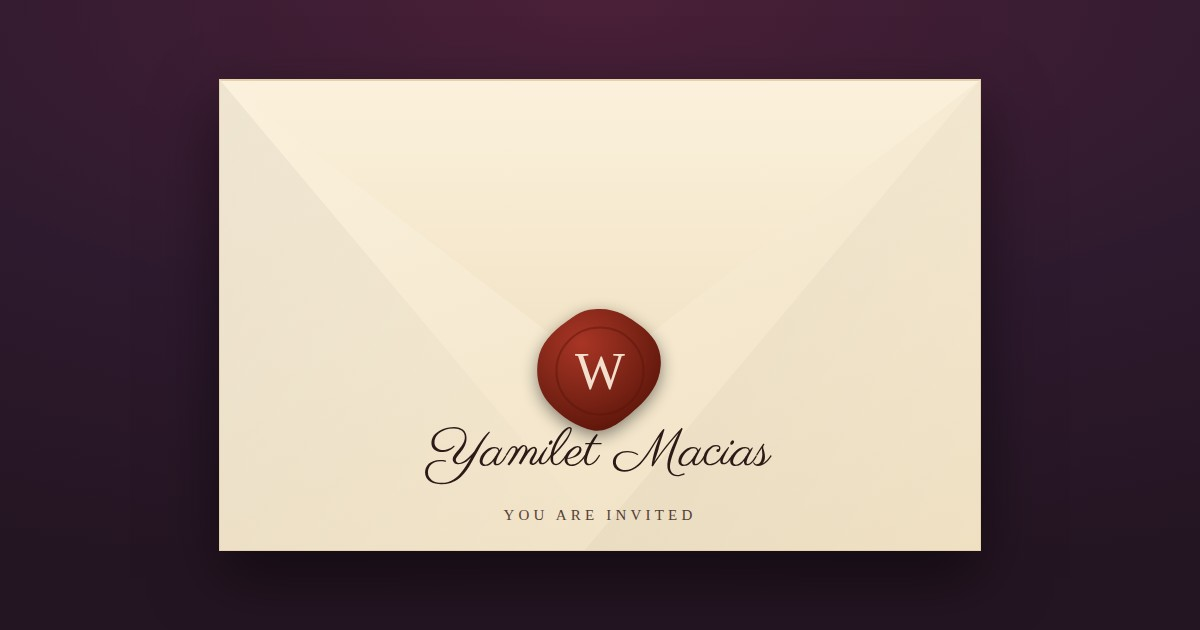
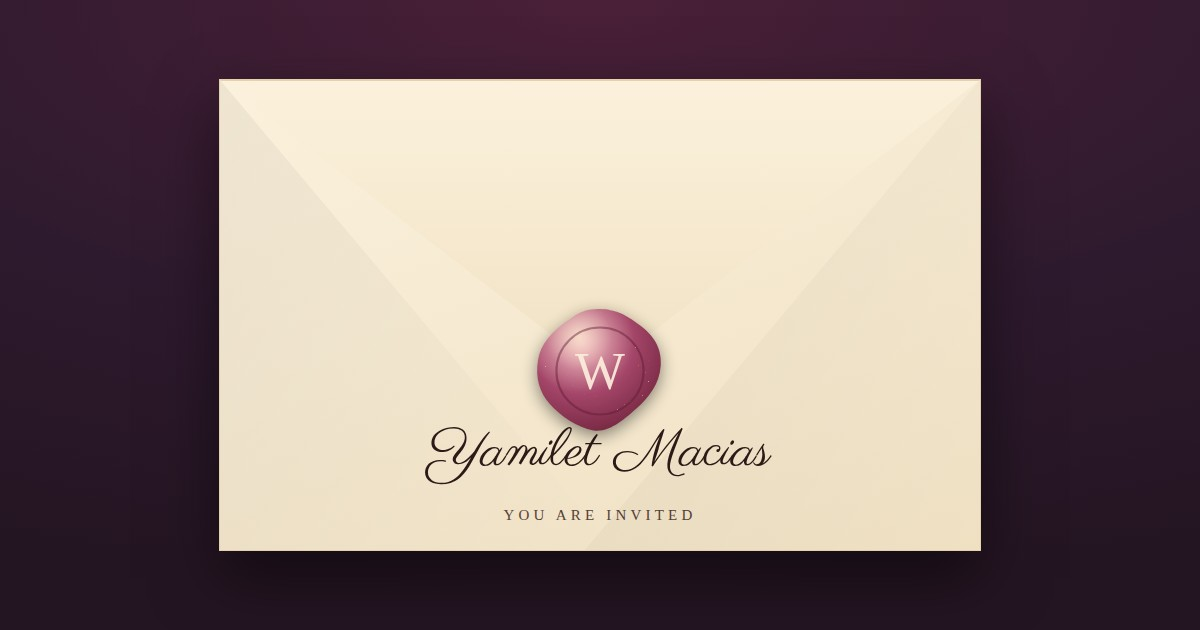
A rose seal for Yamilet, and Omer is asked
Yamilet stands with the other bridesmaids: rose wax, and Sharon's ask in
her own voice. Omer is asked to be Master of Ceremonies, in words written
for him and signed by them both.

A card takes its wax from the standing, but the audit only ever compared
names, so making someone a bridesmaid left a red seal on their envelope
with nothing to say so. The manifest now records the standing each card
was drawn from, and --check compares it. Cards drawn before this have no
recorded standing and are left alone rather than all reported stale.

Words written for one invitation may now run to 700 characters; asking
something of a guest takes more room than greeting them.

Claude-Session: https://claude.ai/code/session_019j1gnnKAkiNuhvSJorzwuc

Changed region(s): [[0.4317, 0.4825, 0.555, 0.6937]]

diff --git a/server.js b/server.js
@@ -60,7 +60,9 @@ const indexGuests = (raw) => {
       // A standing at the wedding, if any. Only "best-man" is special so far.
       role: String(g.role || ""),
       // Words written for this invitation alone, if any.
-      ask: String(g.ask || "").slice(0, 400),
+      // Long enough for words that ask something of the guest rather than
+      // simply greeting them — Omer's is the length that set this.
+      ask: String(g.ask || "").slice(0, 700),
       // Whose guest this is — "sharon" gathers the invitation onto her tab in
       // /admin. Nothing a guest sees, and no effect on any headcount.
       side: String(g.side || ""),
